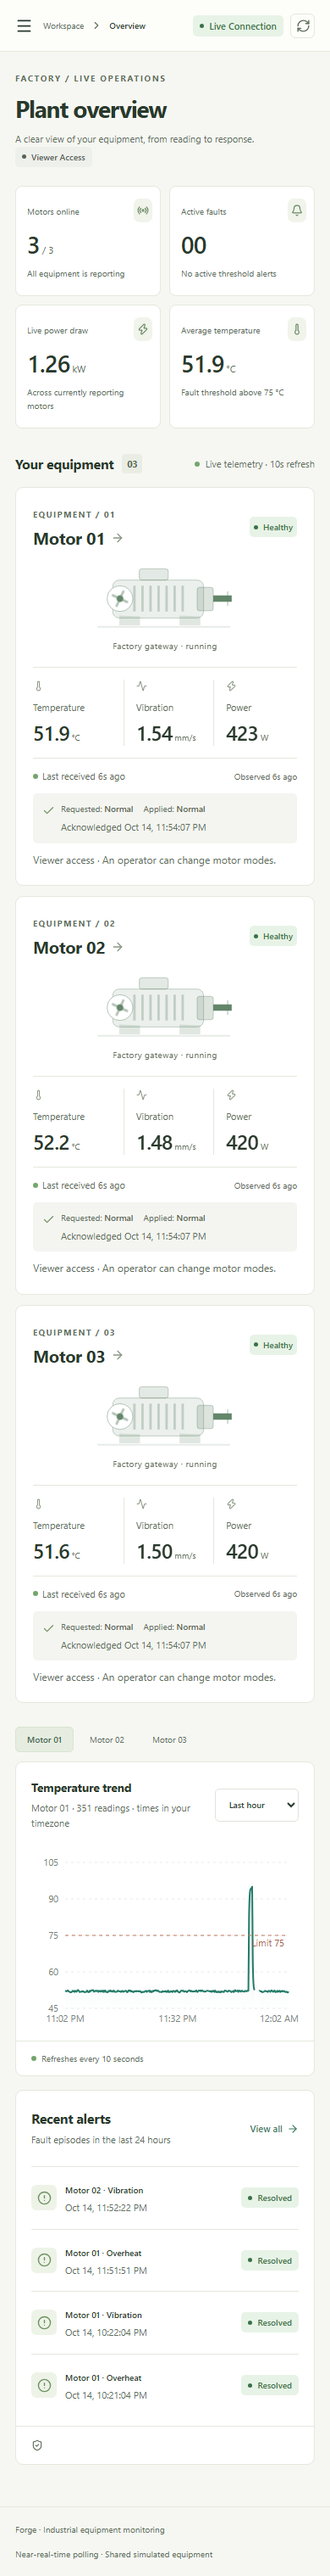
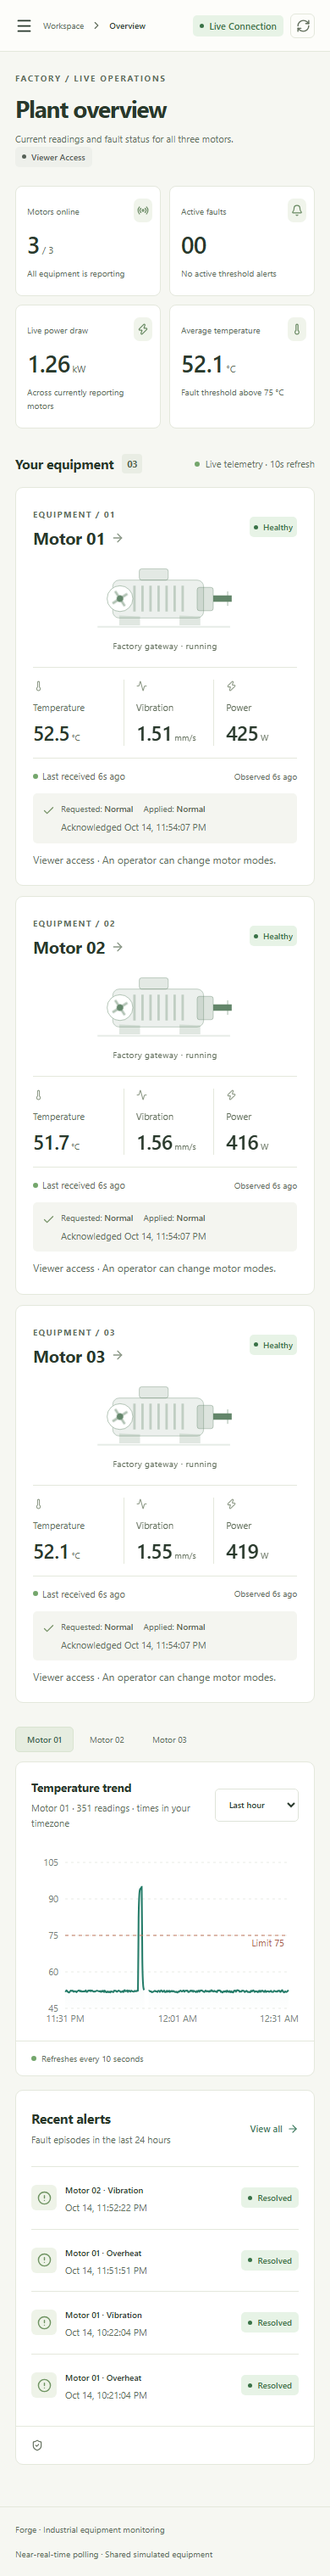
fix: restore initial Cognito access and document verified invitation delivery

diff --git a/frontend/tests/dashboard.spec.ts b/frontend/tests/dashboard.spec.ts
@@ -26,6 +26,7 @@ test("sign-in page is concise, responsive and explains initial password setup", 
     .withTags(["wcag2a", "wcag2aa"])
     .analyze();
   expect(accessibility.violations).toEqual([]);
+  await page.getByText("First sign-in or password trouble?").click();
   await page.screenshot({
     path: "../docs/ui-login-desktop.png",
     fullPage: true,

diff --git a/docs/AWS_ACCEPTANCE.md b/docs/AWS_ACCEPTANCE.md
@@ -71,4 +71,12 @@ Screenshots captured from the real deployment: [desktop overview](ui-overview-de
 
 Browser tests verify these journeys; they cannot guarantee future AWS availability or inbox delivery. The invitation UI was tested with controlled API fixtures to avoid sending unsolicited test invitations, while real account creation/role enforcement was already verified by the AWS suite. React reports reuse the predefined, bounded backend queries. No infrastructure shutdown was performed; the existing budget and keep-online rules continue to apply.
 
+## Sign-in refinement and initial-account recovery — 15 October 2026
+
+The user requested a simpler landing page and the frontend-design skill. The revised entry page provides one Sign in action and collapsed first-login/recovery help, with no promotional headline or motor illustration. The updated suite passed 23 browser scenarios, including entry-page desktop/mobile layout and axe checks.
+
+Live account inspection found both original accounts still waiting for first password setup and lacking a verified email. With the deployed client's user-existence protection enabled, Cognito can show simulated reset-code delivery for such users. See [AWS password-reset error behavior](https://docs.aws.amazon.com/cognito/latest/developerguide/cognito-user-pool-managing-errors.html#cognito-user-pool-managing-errors-password-reset). The current recovery page's masked address matched collegeproject@akshaykripalani.com. Previous human confirmation of SNS subscription and both received emails established ownership of that address. Its recovery email was marked verified, and AWS accepted a freshly generated invitation through AdminCreateUser RESEND. The NMIMS account was not changed. The user then reported that Cloudflare had forwarded the message but it was absent from the inbox. Read-only routing inspection confirmed the latest invitation was Forwarded with SPF/DKIM/DMARC passing. A subject search located its conversation in the destination Gmail Spam folder, and moving it to Inbox was verified in the visible Gmail state. The newest message is dated 15 October 2026 at 00:27 IST; the user must use that temporary password on the normal Sign in screen and choose their own permanent password. The message body was not opened and no credential was written into project files or the CLI log.
+
 All operator AWS CLI commands, including failures, are appended to `AWS_COMMANDS.txt` with timestamps, purpose and exit status. Commands are executed through `scripts.aws_cli`; responses and sensitive authentication inputs are withheld. Source and evidence were committed in incremental milestones.
+
+Cognito uses AWS’s default sender, `no-reply@verificationemail.com`, with the existing COGNITO_DEFAULT configuration; no external mail provider was introduced. See [AWS Cognito email settings](https://docs.aws.amazon.com/cognito/latest/developerguide/user-pool-email.html).

diff --git a/PROGRESS.md b/PROGRESS.md
@@ -24,6 +24,10 @@ Original goal: deploy the complete AWS portion of PRD.md, add extensive deployed
 
 ## Current handoff
 
+Update, 15 October 2026: the user rejected the marketing-style landing page. Applied the installed frontend-design skill and replaced it with a concise, responsive sign-in card; initial invitation/recovery help is collapsed by default. Removed filler copy in overview/report empty states. The updated browser suite passed 23 scenarios, including desktop/mobile entry layout and accessibility.
+
+Initial-account access issue: both initial Cognito accounts were still FORCE_CHANGE_PASSWORD and lacked email_verified. The app client has PreventUserExistenceErrors=ENABLED, so hosted Forgot password can display simulated delivery details without sending a code to an unverified recovery address. The user's active page showed c***@a***, matching collegeproject@akshaykripalani.com. That mailbox's ownership had already been established by the user's confirmation and receipt of both SNS alerts. Its email_verified attribute was set to true and AWS accepted a fresh EMAIL invitation using a Cognito-generated temporary password. The user reported Cloudflare forwarding but no inbox message. Browser inspection confirmed Forwarded with SPF/DKIM/DMARC passing, identified the Gmail destination, found the invitation conversation in Spam by subject, and moved it to Inbox. The newest invitation is dated 15 October at 00:27 IST; older temporary passwords may be invalid. Choosing a permanent password remains a user action; no password/code was added to project files or the command log. The NMIMS account was left unchanged. All CLI operations are logged in AWS_COMMANDS.txt.
+
 Read AGENTS.md, PRD.md, this file, docs/AWS_ACCEPTANCE.md and docs/API.md before further changes. The scoped AWS and UI implementations are complete; CloudFront serves React rather than the earlier status placeholder. README.md records reproducible build/publish and browser test commands. Continue using the existing Sydney deployment and logging every operator AWS CLI command; preserve the Free Plan, budget notifications, original feature scope and continued operation. Academic submission narration/recording can use the existing acceptance evidence and screenshots.
 
 The later confirmation-link error was checked against AWS: the current subscription remained active with PendingConfirmation=false. No resubscription was needed. That verification is committed with the command log.

diff --git a/README.md b/README.md
@@ -45,6 +45,8 @@ Publishing uploads to private S3 and waits for CloudFront invalidation. Keep dep
 
 ## Validation
 
+For initial access, use the temporary password from your Cognito invitation on the normal Sign in screen, then choose your own password. Forgot password requires a verified recovery email. The hosted reset screen can deliberately show simulated delivery details for an account without a verified recovery method; a “code sent” screen alone does not prove that email was sent. Administrators can resend an uncompleted invitation with `admin-create-user --message-action RESEND --desired-delivery-mediums EMAIL` through the command logger; Cognito generates the temporary password. Do not write passwords into source, command arguments or project files.
+
 ```powershell
 .venv\Scripts\python.exe -m scripts.validate
 $env:CCPROJ_LIVE = '1'
